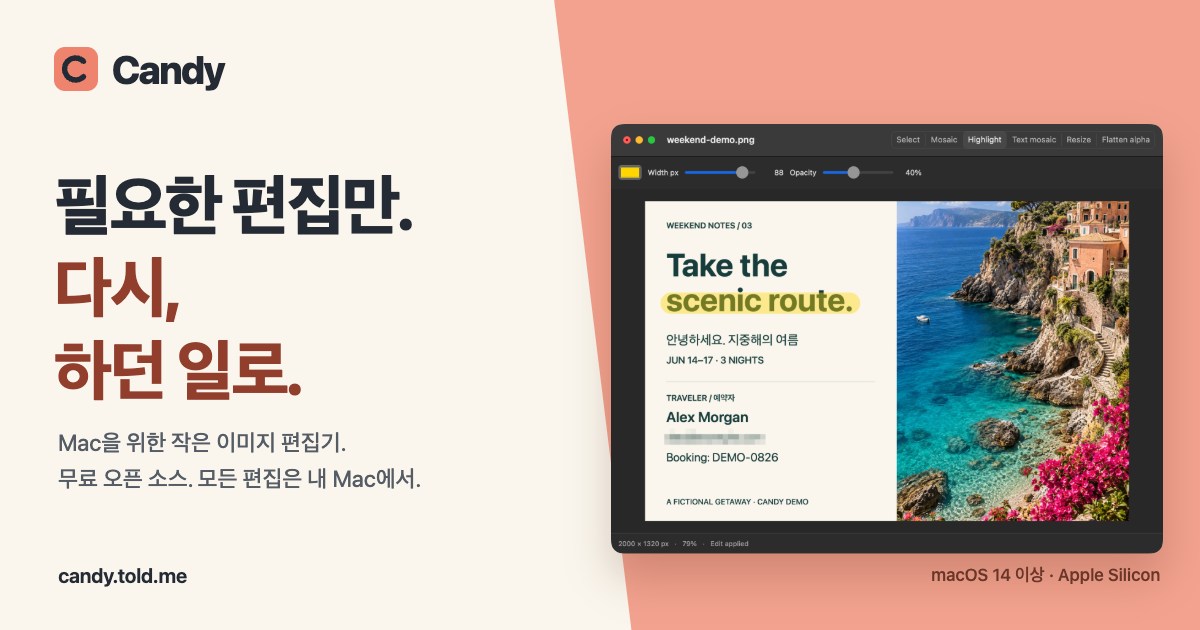
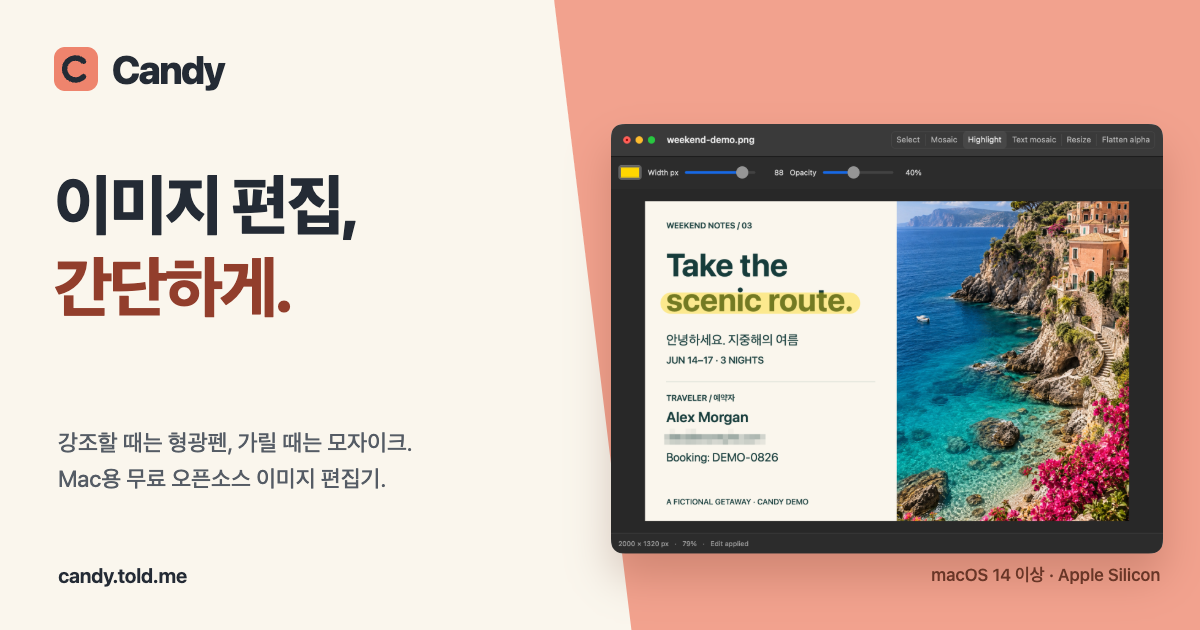
fix(site): rewrite Korean copy in natural language
- Replace literal slogans with clear Korean headlines and feature descriptions
- Align Korean search metadata and regenerated social artwork with the new copy
- Keep Korean headings and paragraphs from breaking within words
- Document Korean terminology and tone for future updates

diff --git a/site/ko/index.html b/site/ko/index.html
@@ -3,8 +3,8 @@
   <head>
     <meta charset="utf-8" />
     <meta name="viewport" content="width=device-width,initial-scale=1" />
-    <title>Candy — 무료 Mac 이미지 편집기 · 하이라이트와 모자이크</title>
-    <meta name="description" content="Mac을 위한 무료 네이티브 이미지 편집기. 하이라이트, 한글·영문 텍스트 모자이크, 영역 추출과 크기 조절을 앱과 터미널에서 빠르게. 원본을 보존하고 모든 편집은 내 Mac에서 처리합니다." />
+    <title>Candy — 간편한 Mac용 무료 이미지 편집기</title>
+    <meta name="description" content="강조할 때는 형광펜으로, 가릴 때는 모자이크로. Candy는 이미지 자르기부터 크기 조절까지 간편하게 할 수 있는 Mac용 무료 이미지 편집기입니다. 원본은 그대로 보관하며, 모든 작업은 Mac에서 처리합니다." />
     <meta name="robots" content="index, follow, max-image-preview:large" />
     <link rel="canonical" href="https://candy.told.me/ko/" />
     <link rel="alternate" hreflang="en" href="https://candy.told.me/" />
@@ -12,8 +12,8 @@
     <link rel="alternate" hreflang="x-default" href="https://candy.told.me/" />
     <meta property="og:type" content="website" />
     <meta property="og:site_name" content="Candy" />
-    <meta property="og:title" content="Candy — 무료 Mac 이미지 편집기 · 하이라이트와 모자이크" />
-    <meta property="og:description" content="Mac을 위한 무료 네이티브 이미지 편집기. 하이라이트, 한글·영문 텍스트 모자이크, 영역 추출과 크기 조절을 앱과 터미널에서 빠르게. 원본을 보존하고 모든 편집은 내 Mac에서 처리합니다." />
+    <meta property="og:title" content="Candy — 간편한 Mac용 무료 이미지 편집기" />
+    <meta property="og:description" content="강조할 때는 형광펜으로, 가릴 때는 모자이크로. Candy는 이미지 자르기부터 크기 조절까지 간편하게 할 수 있는 Mac용 무료 이미지 편집기입니다. 원본은 그대로 보관하며, 모든 작업은 Mac에서 처리합니다." />
     <meta property="og:url" content="https://candy.told.me/ko/" />
     <meta property="og:locale" content="ko_KR" />
     <meta property="og:locale:alternate" content="en_US" />
@@ -22,12 +22,12 @@
     <meta property="og:image:type" content="image/png" />
     <meta property="og:image:width" content="1200" />
     <meta property="og:image:height" content="630" />
-    <meta property="og:image:alt" content="Candy: 필요한 편집만. 다시, 하던 일로. 여행 카드에 하이라이트와 이메일 모자이크를 적용한 실제 Mac 이미지 편집 화면." />
+    <meta property="og:image:alt" content="Candy — 이미지 편집, 간단하게. 여행 카드의 제목을 형광펜으로 강조하고 이메일 주소를 모자이크로 가린 Candy 편집 화면." />
     <meta name="twitter:card" content="summary_large_image" />
-    <meta name="twitter:title" content="Candy — 무료 Mac 이미지 편집기 · 하이라이트와 모자이크" />
-    <meta name="twitter:description" content="Mac을 위한 무료 네이티브 이미지 편집기. 하이라이트, 한글·영문 텍스트 모자이크, 영역 추출과 크기 조절을 앱과 터미널에서 빠르게. 원본을 보존하고 모든 편집은 내 Mac에서 처리합니다." />
+    <meta name="twitter:title" content="Candy — 간편한 Mac용 무료 이미지 편집기" />
+    <meta name="twitter:description" content="강조할 때는 형광펜으로, 가릴 때는 모자이크로. Candy는 이미지 자르기부터 크기 조절까지 간편하게 할 수 있는 Mac용 무료 이미지 편집기입니다. 원본은 그대로 보관하며, 모든 작업은 Mac에서 처리합니다." />
     <meta name="twitter:image" content="https://candy.told.me/assets/og-ko.png" />
-    <meta name="twitter:image:alt" content="Candy: 필요한 편집만. 다시, 하던 일로. 여행 카드에 하이라이트와 이메일 모자이크를 적용한 실제 Mac 이미지 편집 화면." />
+    <meta name="twitter:image:alt" content="Candy — 이미지 편집, 간단하게. 여행 카드의 제목을 형광펜으로 강조하고 이메일 주소를 모자이크로 가린 Candy 편집 화면." />
     <meta name="theme-color" content="#f2a28e" />
     <link rel="icon" href="../assets/favicon.svg" type="image/svg+xml" />
     <link rel="stylesheet" href="../assets/style.css" />
@@ -49,8 +49,8 @@
           "@type": "WebPage",
           "@id": "https://candy.told.me/ko/#webpage",
           "url": "https://candy.told.me/ko/",
-          "name": "Candy — 무료 Mac 이미지 편집기 · 하이라이트와 모자이크",
-          "description": "Mac을 위한 무료 네이티브 이미지 편집기. 하이라이트, 한글·영문 텍스트 모자이크, 영역 추출과 크기 조절을 앱과 터미널에서 빠르게. 원본을 보존하고 모든 편집은 내 Mac에서 처리합니다.",
+          "name": "Candy — 간편한 Mac용 무료 이미지 편집기",
+          "description": "강조할 때는 형광펜으로, 가릴 때는 모자이크로. Candy는 이미지 자르기부터 크기 조절까지 간편하게 할 수 있는 Mac용 무료 이미지 편집기입니다. 원본은 그대로 보관하며, 모든 작업은 Mac에서 처리합니다.",
           "inLanguage": "ko",
           "isPartOf": {
             "@id": "https://candy.told.me/#website"
@@ -82,7 +82,7 @@
             "price": "0",
             "priceCurrency": "USD"
           },
-          "description": "Mac을 위한 무료 네이티브 이미지 편집기. 하이라이트, 한글·영문 텍스트 모자이크, 영역 추출과 크기 조절을 앱과 터미널에서 빠르게. 원본을 보존하고 모든 편집은 내 Mac에서 처리합니다."
+          "description": "강조할 때는 형광펜으로, 가릴 때는 모자이크로. Candy는 이미지 자르기부터 크기 조절까지 간편하게 할 수 있는 Mac용 무료 이미지 편집기입니다. 원본은 그대로 보관하며, 모든 작업은 Mac에서 처리합니다."
         }
       ]
     }
@@ -113,19 +113,20 @@
       <section class="hero wrap" aria-labelledby="hero-title">
         <div>
           <h1 id="hero-title">
-            필요한 편집만.<br /><span>다시, 하던 일로.</span>
+            이미지 편집,<br /><span>간단하게.</span>
           </h1>
           <p class="intro">
-            Mac을 위한 작은 이미지 도구. 스크린샷을 열고, 필요한 만큼 손보고,
-            사본으로 저장하세요. 편집은 가볍게 끝내면 되니까요.
+            강조할 때는 형광펜으로, 가릴 때는 모자이크로.
+            Candy는 간단한 이미지 편집을 빠르게 끝낼 수 있는 Mac 앱입니다.
+            필요한 부분만 수정해 새 파일로 저장하세요.
           </p>
           <div class="actions">
-            <a class="button" href="#get">Candy 시작하기</a
+            <a class="button" href="#get">설치 방법 보기</a
             ><a class="text-link" href="https://github.com/rath/candy"
               >GitHub에서 보기</a
             >
           </div>
-          <p class="requirement">macOS 14 이상 · Apple Silicon · 무료 오픈 소스</p>
+          <p class="requirement">macOS 14 이상 · Apple Silicon · 무료 · 오픈소스</p>
         </div>
         <figure class="hero-visual">
           <div class="stage">
@@ -136,12 +137,12 @@
                 width="1800"
                 height="1400"
                 fetchpriority="high"
-                alt="해안 사진이 담긴 가상의 여행 카드에서 제목을 노란색으로 강조하고 예시 이메일을 모자이크한 실제 Candy 화면"
+                alt="여행 카드의 제목을 노란색 형광펜으로 강조하고 이메일 주소를 모자이크로 가린 Candy 편집 화면"
               />
             </picture>
           </div>
           <figcaption>
-            가상의 여행 카드에 하이라이트와 모자이크를 적용한 실제 화면입니다.
+            예시로 만든 여행 카드를 Candy에서 직접 편집한 화면입니다.
           </figcaption>
         </figure>
       </section>
@@ -149,65 +150,66 @@
         <div class="wrap terminal-grid">
           <div>
             <h2 id="terminal-title">
-              터미널에서 시작해도,<br />익숙한 Mac 앱으로.
+              터미널에서 바로 보고,<br />앱에서 편집하세요.
             </h2>
             <p>
-              Kitty 그래픽을 지원하는 터미널에서 이미지를 바로 확인하세요.
-              편집이 필요하면 익숙한 탭, 단축키, 저장 창을 갖춘 네이티브 macOS
-              앱으로 열면 됩니다.
+              Kitty 그래픽을 지원하는 터미널에서는 이미지를 바로 볼 수 있습니다.
+              편집하려면 candy edit 명령으로 앱을 실행하세요.
+              탭과 단축키, 저장 창까지 익숙한 Mac 방식으로 사용할 수 있습니다.
             </p>
           </div>
           <pre
             class="commands"
           ><code><span class="prompt" aria-hidden="true">$ </span>candy photo.png
 <span class="prompt" aria-hidden="true">$ </span>candy edit photo.png
-<span class="comment"># 실행 후에는 바로 다음 명령을 입력할 수 있어요.</span></code></pre>
+<span class="comment"># 앱을 열어 둔 채로 터미널을 계속 사용할 수 있습니다.</span></code></pre>
         </div>
       </section>
       <section class="features wrap" aria-labelledby="features-title">
-        <h2 id="features-title">딱 필요한 도구만<br />담았습니다.</h2>
+        <h2 id="features-title">자주 쓰는 기능을<br />한곳에 모았습니다.</h2>
         <div class="feature-grid">
           <article>
-            <h3>필요한 부분만 쏙.</h3>
+            <h3>필요한 부분만 잘라내기</h3>
             <p>
-              영역을 선택해 새 이미지로 추출하세요. 선택 영역을 옮기거나
-              모서리를 조절할 수 있습니다.
+              원하는 부분을 선택해 별도 이미지로 만드세요.
+              선택한 영역의 위치와 크기도 자유롭게 조절할 수 있습니다.
             </p>
           </article>
           <article>
-            <h3>중요한 곳에 한 줄.</h3>
+            <h3>형광펜으로 강조하기</h3>
             <p>
-              반투명 하이라이트로 강조하세요. 색상과 굵기, 불투명도도 원하는
-              대로 조절할 수 있습니다.
+              눈에 띄어야 할 부분에 형광펜을 그어 보세요.
+              색상과 굵기, 불투명도를 원하는 대로 조절할 수 있습니다.
             </p>
           </article>
           <article>
-            <h3>모자이크도 간단하게.</h3>
+            <h3>민감한 정보 가리기</h3>
             <p>
-              선택한 영역에 모자이크를 적용하세요. Apple Vision으로 한국어와
-              영어 텍스트를 기기에서 찾아, 영역을 확인한 뒤 적용할 수도
-              있습니다.
+              가리고 싶은 부분을 선택해 모자이크를 적용하세요.
+              이미지 속 한글과 영문을 자동으로 찾은 뒤,
+              인식된 영역을 확인하고 가릴 수도 있습니다.
             </p>
           </article>
           <article>
-            <h3>크기는 알맞게.</h3>
+            <h3>크기 조절하기</h3>
             <p>
-              가로세로 비율을 유지하며 줄이거나, 필요한 크기를 정확하게
-              지정하세요.
+              가로세로 비율을 유지하며 크기를 바꾸거나,
+              원하는 너비와 높이를 직접 지정하세요.
             </p>
           </article>
           <article>
-            <h3>배경은 깔끔하게.</h3>
+            <h3>투명한 배경에 색 채우기</h3>
             <p>
-              투명한 부분을 원하는 색으로 채우세요. 단색 배경이 필요한 이미지
-              형식에도 맞출 수 있습니다.
+              이미지의 투명한 부분을 원하는 색으로 채우세요.
+              투명도를 지원하지 않는 형식으로 저장할 때도 유용합니다.
             </p>
           </article>
           <article>
-            <h3>원본은 그대로.</h3>
+            <h3>원본은 그대로 보관</h3>
             <p>
-              첫 저장은 사본으로 만듭니다. 실행 취소와 다시 실행도 지원해요.
-              이미지 처리와 OCR은 모두 Mac 안에서 이루어집니다.
+              처음 저장할 때는 새 파일을 만들어 원본을 보존합니다.
+              편집 중에는 실행 취소와 다시 실행도 가능합니다.
+              이미지 편집과 문자 인식은 모두 Mac에서 처리합니다.
             </p>
           </article>
         </div>
@@ -219,10 +221,11 @@
       <section id="get" class="get" aria-labelledby="get-title">
         <div class="wrap get-grid">
           <div>
-            <h2 id="get-title">작은 도구.<br />열린 소스.</h2>
+            <h2 id="get-title">무료로 사용하세요.<br />소스 코드도 공개합니다.</h2>
             <p>
-              Candy는 MIT 라이선스로 공개된 무료 앱입니다. Homebrew로 앱과
-              터미널 명령어를 함께 설치하거나, 앱을 직접 다운로드하세요.
+              Candy는 MIT 라이선스로 공개된 오픈소스 앱입니다.
+              Homebrew로 앱과 터미널 명령어를 함께 설치하거나,
+              아래 링크에서 앱을 다운로드하세요.
             </p>
             <a
               class="text-link"
@@ -235,18 +238,18 @@
               <pre><code>brew install --cask rath/tap/candy</code></pre>
             </div>
             <p class="build-note">
-              macOS 14 이상을 사용하는 Apple Silicon Mac용입니다.
-              Developer ID 서명과 Apple 공증을 마쳤으며, 빌드 도구 없이
-              바로 사용할 수 있습니다.
+              macOS 14 이상이 설치된 Apple Silicon Mac에서 사용할 수 있습니다.
+              Developer ID로 서명하고 Apple 공증을 받은 앱으로,
+              별도의 빌드 과정 없이 설치해 사용할 수 있습니다.
             </p>
           </div>
         </div>
       </section>
     </main>
     <footer class="wrap">
-      <p>Candy. 몇 번의 편집, 그리고 다시 하던 일로.</p>
+      <p>Candy — 간단한 이미지 편집을 더 편하게.</p>
       <div>
-        <a href="https://github.com/rath/candy/issues">문제 제보</a
+        <a href="https://github.com/rath/candy/issues">문제 신고</a
         ><a href="https://github.com/rath/candy/blob/main/LICENSE"
           >MIT 라이선스</a
         >

diff --git a/scripts/og/index.html b/scripts/og/index.html
@@ -34,9 +34,9 @@
     <div class="coral" aria-hidden="true"></div>
     <div class="brand"><img src="../../site/assets/favicon.svg" alt="" />Candy</div>
     <h1 class="en">Small edits.<br /><span>Back to<br />your day.</span></h1>
-    <h1 class="ko">필요한 편집만.<br /><span>다시,<br />하던 일로.</span></h1>
+    <h1 class="ko">이미지 편집,<br /><span>간단하게.</span></h1>
     <p class="description en">Your Mac’s little image editor.<br />Free. Open source. Entirely local.</p>
-    <p class="description ko">Mac을 위한 작은 이미지 편집기.<br />무료 오픈 소스. 모든 편집은 내 Mac에서.</p>
+    <p class="description ko">강조할 때는 형광펜, 가릴 때는 모자이크.<br />Mac용 무료 오픈소스 이미지 편집기.</p>
     <img class="editor" src="../../site/assets/candy-editor.png" width="1800" height="1400" alt="The real Candy editor with a highlighted travel card and a pixelated sample email" />
     <div class="domain">candy.told.me</div>
     <p class="platform en">macOS 14+ · Apple Silicon</p>

diff --git a/site/assets/style.css b/site/assets/style.css
@@ -326,7 +326,9 @@ footer a {
   line-height: 1.16;
   word-break: keep-all;
 }
-:lang(ko) h2 {
+:lang(ko) h2,
+:lang(ko) h3,
+:lang(ko) p {
   word-break: keep-all;
 }
 :lang(ko) .intro {

diff --git a/docs/website-design.md b/docs/website-design.md
@@ -91,7 +91,7 @@ The site explicitly uses a light color scheme, independently of the native app's
 
 Use the platform sans-serif stack without downloaded or bundled fonts. Command examples use the platform monospace stack. Headings have tight tracking and balanced wrapping; paragraphs have generous leading. Introductory copy is limited to 38 characters per line, feature copy to 35, and other prose generally to 45–50.
 
-Korean headings and feature/introductory copy keep words together. The Korean display role has its own size and leading; its introductory copy is 18px. At the intermediate breakpoint English display text becomes 52px. At the mobile breakpoint display text is 56px in English and 50px in Korean; on the narrowest screens these become 48px and 44px. Mobile English introductory copy becomes 17px and feature copy 14px.
+Korean headings and paragraphs keep words together, including feature titles and installation notes. The Korean display role has its own size and leading; its introductory copy is 18px. At the intermediate breakpoint English display text becomes 52px. At the mobile breakpoint display text is 56px in English and 50px in Korean; on the narrowest screens these become 48px and 44px. Mobile English introductory copy becomes 17px and feature copy 14px.
 
 ## Layout
 
@@ -125,3 +125,7 @@ Rounded corners identify the primary action, image, coral stage and build block.
 - **Do** show real native application imagery and retain its provenance.
 - **Do** distinguish notarized public downloads from local source builds; state the Apple Silicon and macOS requirements beside installation instructions.
 - **Don't** apply these website tokens to native AppKit controls or replace the native design documents.
+
+## Korean copy
+
+Write natural Korean descriptions of actions rather than translating English slogans literally. The hero reads “이미지 편집, 간단하게.” Use “형광펜” for the highlight tool, “모자이크” for pixelation and “문자 인식” for OCR in visitor-facing explanations. Use consistent polite instructions and keep the Korean search descriptions and social card aligned with the page.
